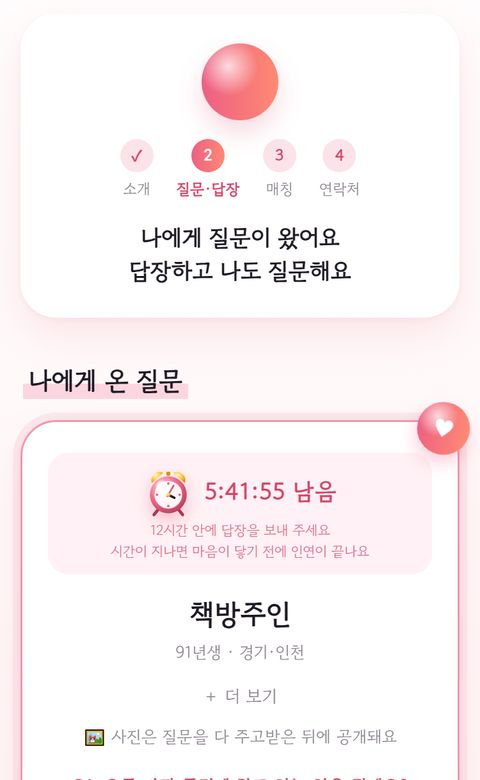
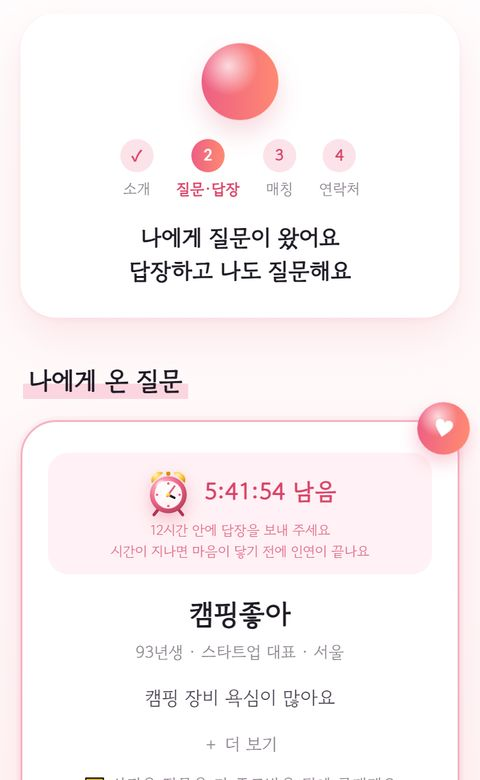
Lite 신청서 카드: 같은 예시 회원(캠핑좋아)으로 통일, 묻고 싶은 질문, 모자이크 사진 2장

diff --git a/easy.html b/easy.html
@@ -278,7 +278,7 @@ input[type=text],input[type=tel],select,.long{font-weight:500}
       <div class="how-cards" id="howCards" tabindex="0" aria-label="진행 순서, 옆으로 넘겨 보세요">
         <div class="how-card" role="group" aria-label="1 / 6"><span class="how-n">STEP 1<i>/6</i></span><img class="how-img" src="how/1.jpg" alt="신청서 화면" width="480" height="780" loading="lazy" decoding="async"><strong>2분이면 신청 끝</strong><span class="how-d">닉네임과 연애 스타일만 답하면 돼요<br>복잡한 프로필은 필요 없어요</span></div>
         <div class="how-card" role="group" aria-label="2 / 6"><span class="how-n">STEP 2<i>/6</i></span><img class="how-img" src="how/2.jpg" alt="추천 화면" width="480" height="780" loading="lazy" decoding="async"><strong>하루 1명 소개</strong><span class="how-d">사진 없이 프로필·가치관만 보고<br>마음이 가면 '더 알아보고 싶어요'</span></div>
-        <div class="how-card" role="group" aria-label="3 / 6"><span class="how-n">STEP 3<i>/6</i></span><img class="how-img" src="how/3.jpg" alt="질문 고르는 화면" width="480" height="780" loading="lazy" decoding="async"><strong>궁금한 질문 5개 고르기</strong><span class="how-d">질문 20개 중에 궁금한 걸 골라<br>상대에게 보내요</span></div>
+        <div class="how-card" role="group" aria-label="3 / 6"><span class="how-n">STEP 3<i>/6</i></span><img class="how-img" src="how/3.jpg" alt="질문 고르는 화면" width="480" height="780" loading="lazy" decoding="async"><strong>묻고 싶은 질문 5개 고르기</strong><span class="how-d">질문 20개 중에 묻고 싶은 걸 골라<br>상대에게 보내요</span></div>
         <div class="how-card" role="group" aria-label="4 / 6"><span class="how-n">STEP 4<i>/6</i></span><img class="how-img" src="how/4.jpg" alt="질문 받은 화면" width="480" height="780" loading="lazy" decoding="async"><strong>질문 주고받기</strong><span class="how-d">상대가 답장하면서<br>나에게도 질문을 보내요</span></div>
         <div class="how-card" role="group" aria-label="5 / 6"><span class="how-n">STEP 5<i>/6</i></span><img class="how-img" src="how/5.jpg" alt="전체 프로필 화면" width="480" height="780" loading="lazy" decoding="async"><strong>원하면 사진도 확인</strong><span class="how-d">질문을 다 주고받은 뒤에<br>원하시면 사진을 확인할 수 있어요</span></div>
         <div class="how-card" role="group" aria-label="6 / 6"><span class="how-n">STEP 6<i>/6</i></span><img class="how-img" src="how/6.jpg" alt="카카오톡 아이디 화면" width="480" height="780" loading="lazy" decoding="async"><strong>둘 다 원하면 매칭</strong><span class="how-d">서로 매칭을 희망하면<br>카카오톡 아이디를 전달해 드려요</span></div>

diff --git a/index.html b/index.html
@@ -277,7 +277,7 @@ input[type=text],input[type=tel],select,.long{font-weight:500}
       <div class="how-cards" id="howCards" tabindex="0" aria-label="진행 순서, 옆으로 넘겨 보세요">
         <div class="how-card" role="group" aria-label="1 / 6"><span class="how-n">STEP 1<i>/6</i></span><img class="how-img" src="how/1.jpg" alt="신청서 화면" width="480" height="780" loading="lazy" decoding="async"><strong>2분이면 신청 끝</strong><span class="how-d">닉네임과 연애 스타일만 답하면 돼요<br>복잡한 프로필은 필요 없어요</span></div>
         <div class="how-card" role="group" aria-label="2 / 6"><span class="how-n">STEP 2<i>/6</i></span><img class="how-img" src="how/2.jpg" alt="추천 화면" width="480" height="780" loading="lazy" decoding="async"><strong>하루 1명 소개</strong><span class="how-d">사진 없이 프로필·가치관만 보고<br>마음이 가면 '더 알아보고 싶어요'</span></div>
-        <div class="how-card" role="group" aria-label="3 / 6"><span class="how-n">STEP 3<i>/6</i></span><img class="how-img" src="how/3.jpg" alt="질문 고르는 화면" width="480" height="780" loading="lazy" decoding="async"><strong>궁금한 질문 5개 고르기</strong><span class="how-d">질문 20개 중에 궁금한 걸 골라<br>상대에게 보내요</span></div>
+        <div class="how-card" role="group" aria-label="3 / 6"><span class="how-n">STEP 3<i>/6</i></span><img class="how-img" src="how/3.jpg" alt="질문 고르는 화면" width="480" height="780" loading="lazy" decoding="async"><strong>묻고 싶은 질문 5개 고르기</strong><span class="how-d">질문 20개 중에 묻고 싶은 걸 골라<br>상대에게 보내요</span></div>
         <div class="how-card" role="group" aria-label="4 / 6"><span class="how-n">STEP 4<i>/6</i></span><img class="how-img" src="how/4.jpg" alt="질문 받은 화면" width="480" height="780" loading="lazy" decoding="async"><strong>질문 주고받기</strong><span class="how-d">상대가 답장하면서<br>나에게도 질문을 보내요</span></div>
         <div class="how-card" role="group" aria-label="5 / 6"><span class="how-n">STEP 5<i>/6</i></span><img class="how-img" src="how/5.jpg" alt="전체 프로필 화면" width="480" height="780" loading="lazy" decoding="async"><strong>원하면 사진도 확인</strong><span class="how-d">질문을 다 주고받은 뒤에<br>원하시면 사진을 확인할 수 있어요</span></div>
         <div class="how-card" role="group" aria-label="6 / 6"><span class="how-n">STEP 6<i>/6</i></span><img class="how-img" src="how/6.jpg" alt="카카오톡 아이디 화면" width="480" height="780" loading="lazy" decoding="async"><strong>둘 다 원하면 매칭</strong><span class="how-d">서로 매칭을 희망하면<br>카카오톡 아이디를 전달해 드려요</span></div>
